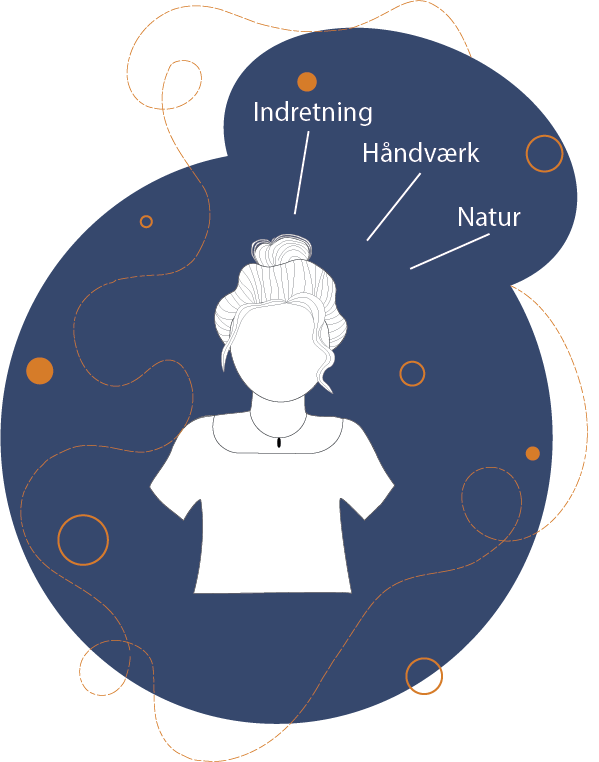
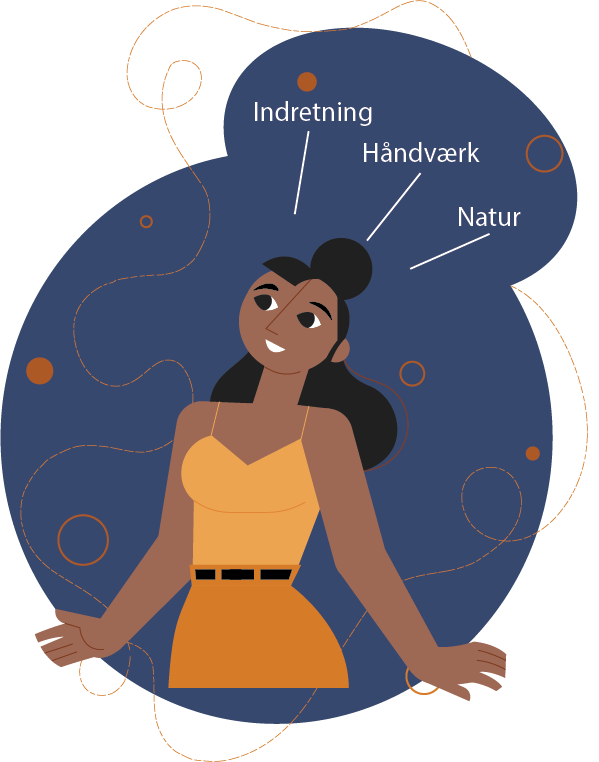
nye illustrationer tilføjet

diff --git a/om-story-media.html b/om-story-media.html
@@ -138,8 +138,6 @@
                 <li><h4>troværdighed</h4></li>
                 <li><h4>specialiseret</h4></li>
                 <li><h4>relationsskabende</h4></li>
-                <li><h4>engageret</h4></li>
-                <li><h4>Opdateret</h4></li>
                 <li><h4>skabertrang</h4></li>
                 <li><h4>kreativitet</h4></li>
             </ul>
